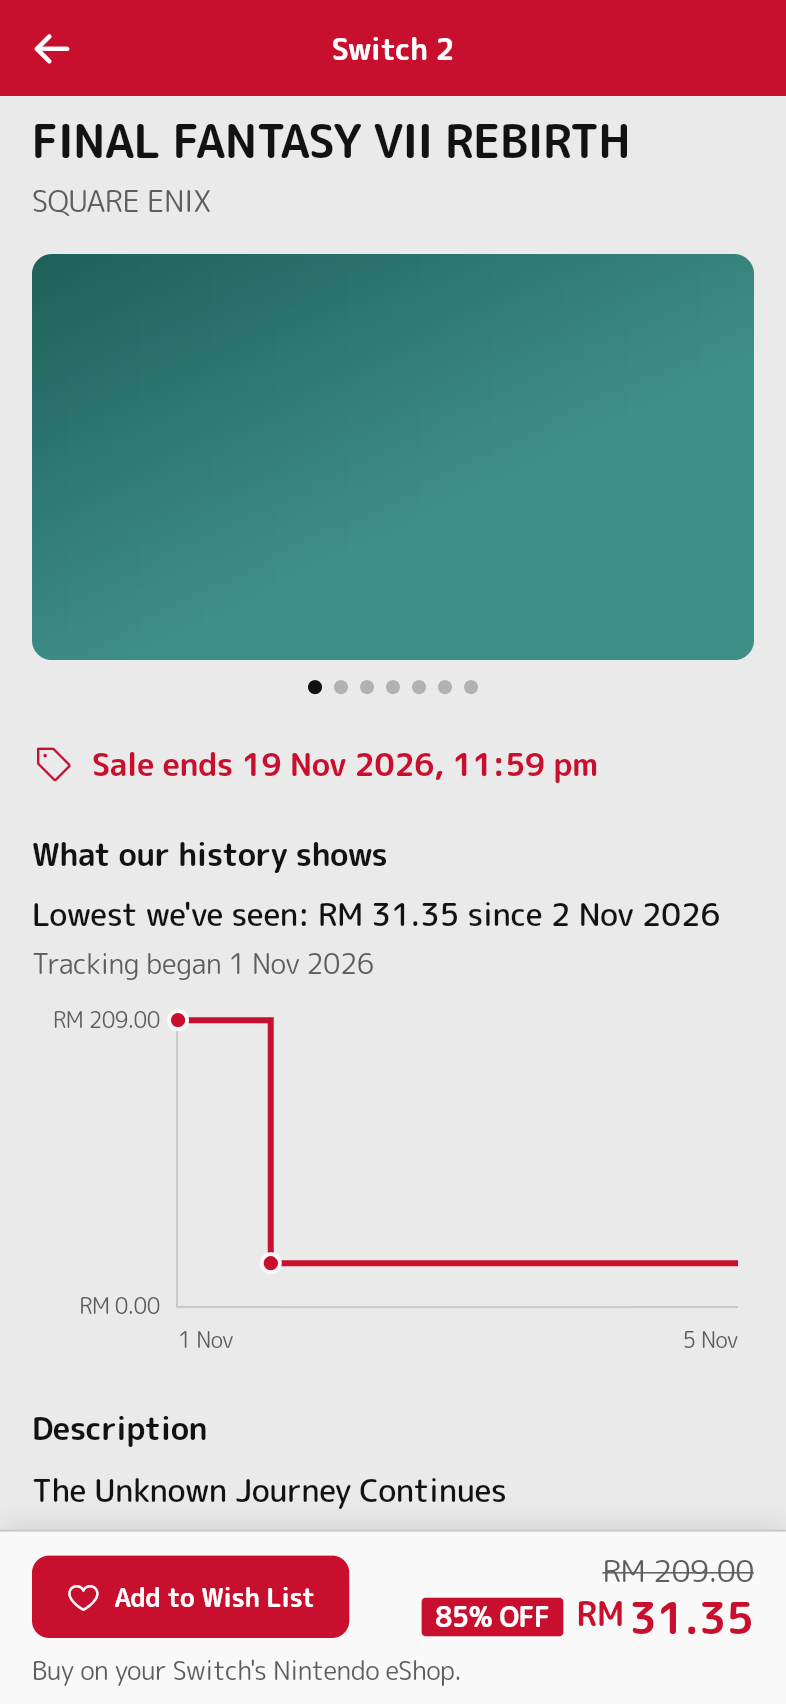
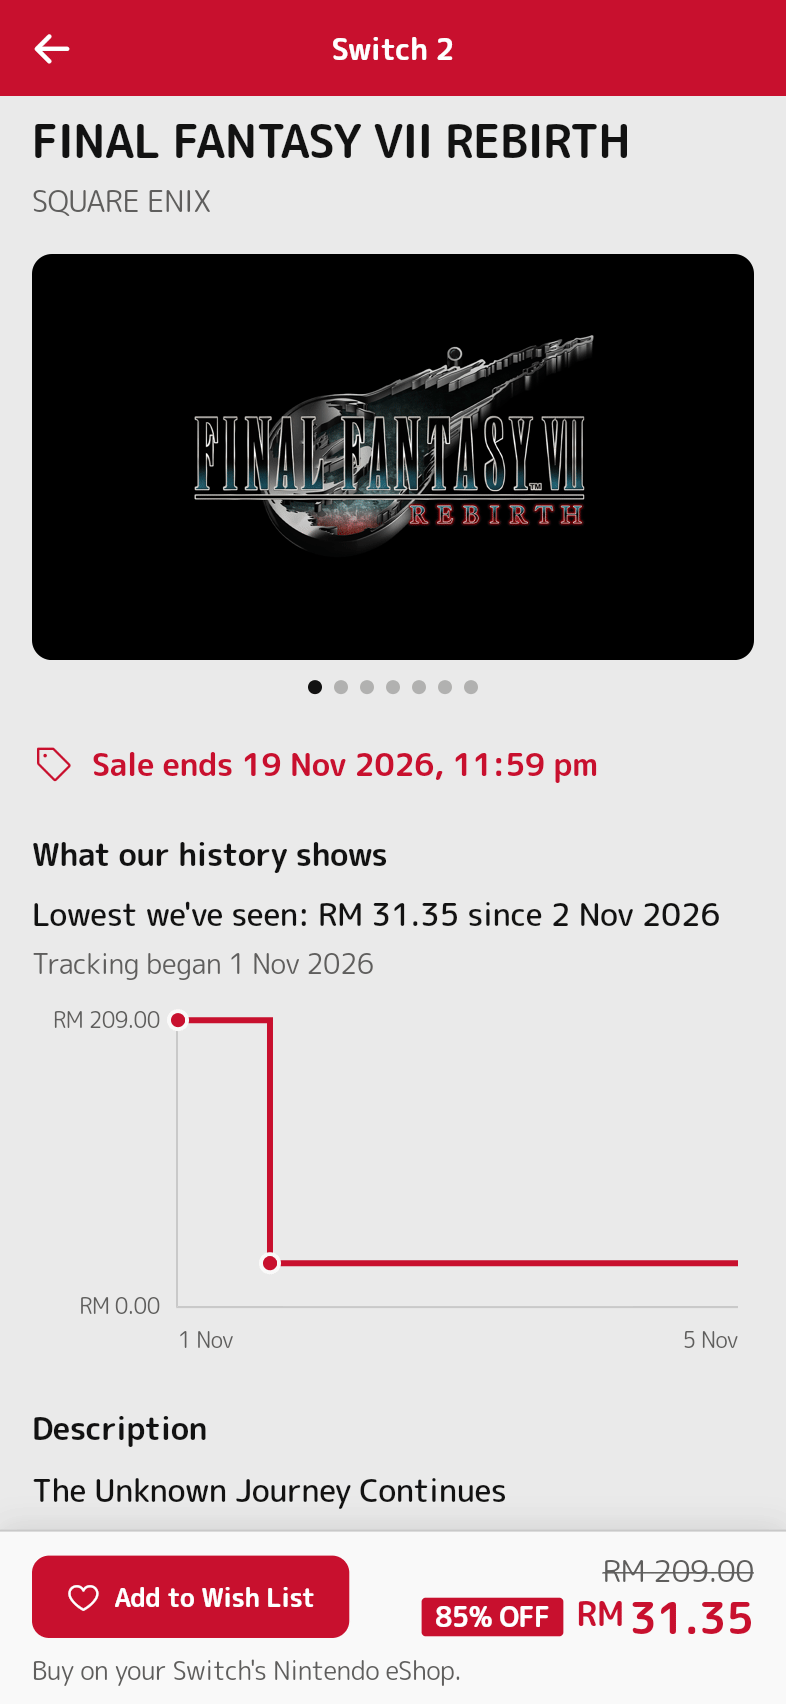
Retake README screenshots and preview with real cover art
The site now loads art from Nintendo's image server, so the shots show
it as visitors see it. PNGs are 256-colour to keep the page light.

Changed region(s): [[0.0305, 0.1244, 0.9771, 0.4043]]

diff --git a/README.md b/README.md
@@ -14,7 +14,7 @@ Unofficial price tracker for Malaysian Nintendo eShop prices, in MYR. A Go colle
 
 <img src="docs/screenshots/desktop-sale.png" alt="Sale page on a wide screen with a sidebar and a four-column grid">
 
-Cover art in these screenshots is replaced with plain tiles; the app itself shows the store's art. The prices, dates and charts are real, from the live site on 5 Nov 2026.
+Screenshots of the live site on 5 Nov 2026. Game art belongs to Nintendo and the games' publishers; the site loads it from Nintendo's image server.
 
 Setup: `createdb eshop_radar && for f in backend/db/migrations/*.sql; do psql -d eshop_radar -f $f; done`
 Collect one sweep (from `backend/`): `go run ./cmd/collector` (optional `USER_AGENT`)
